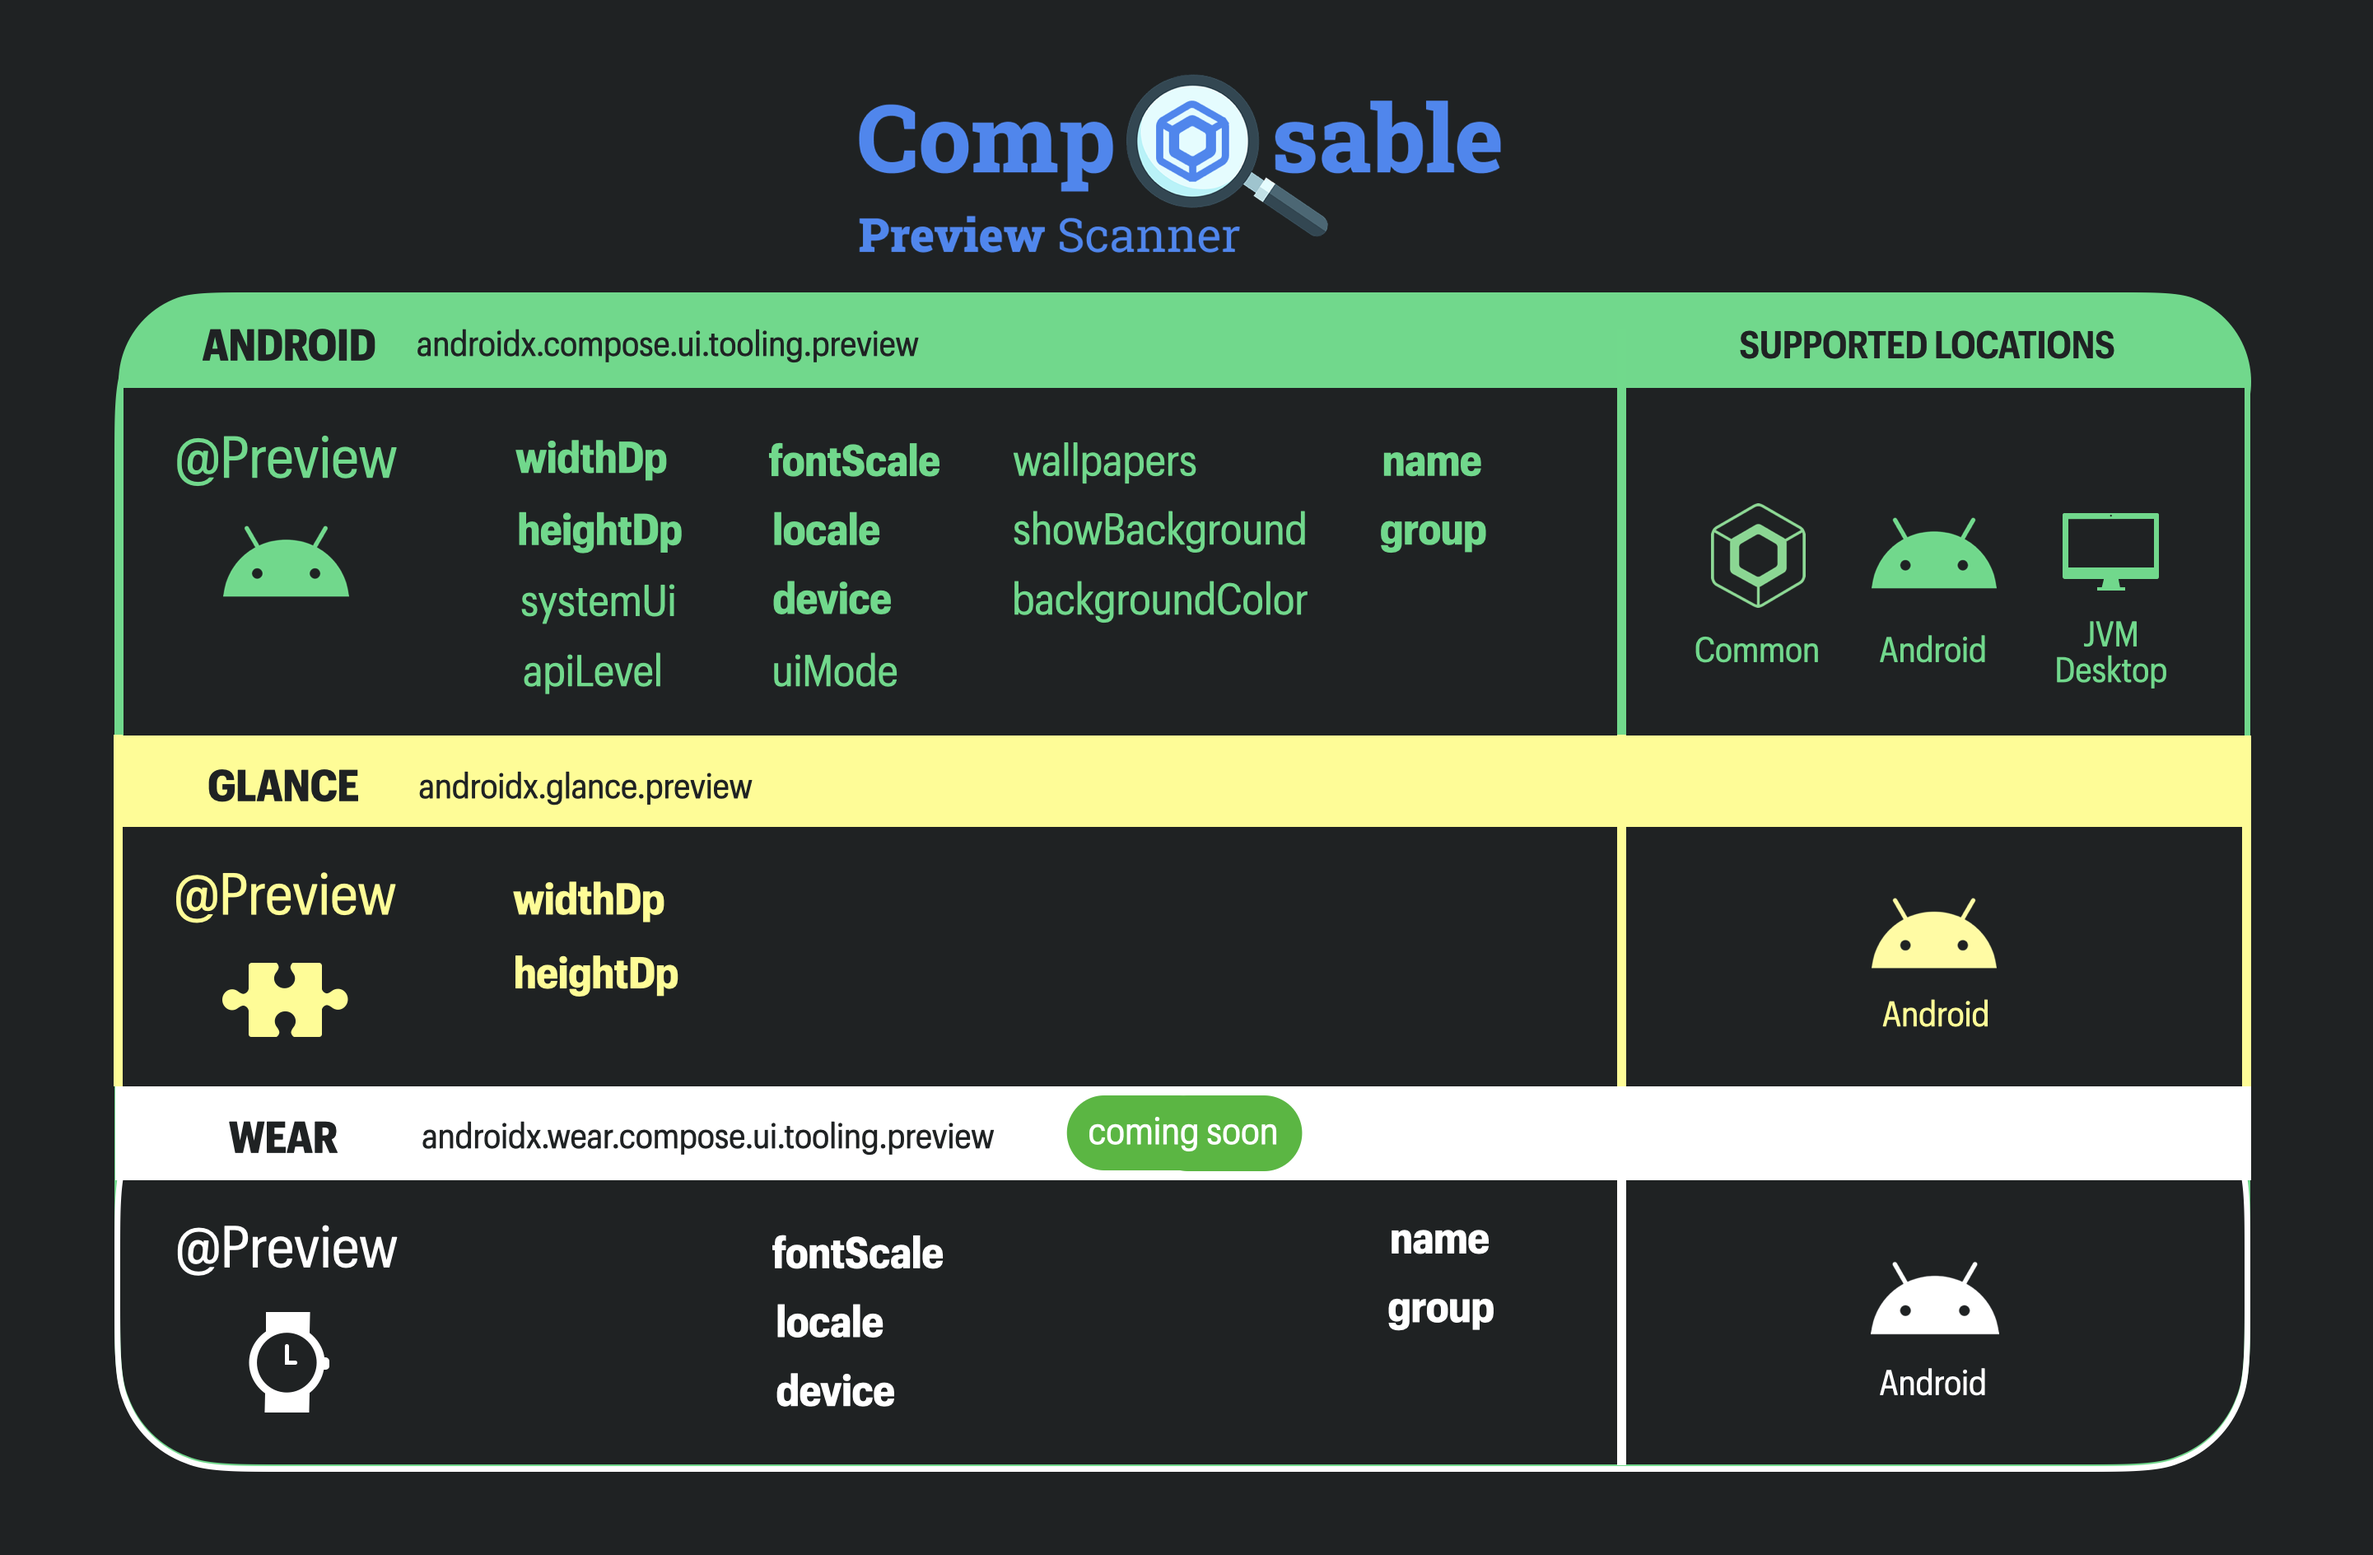
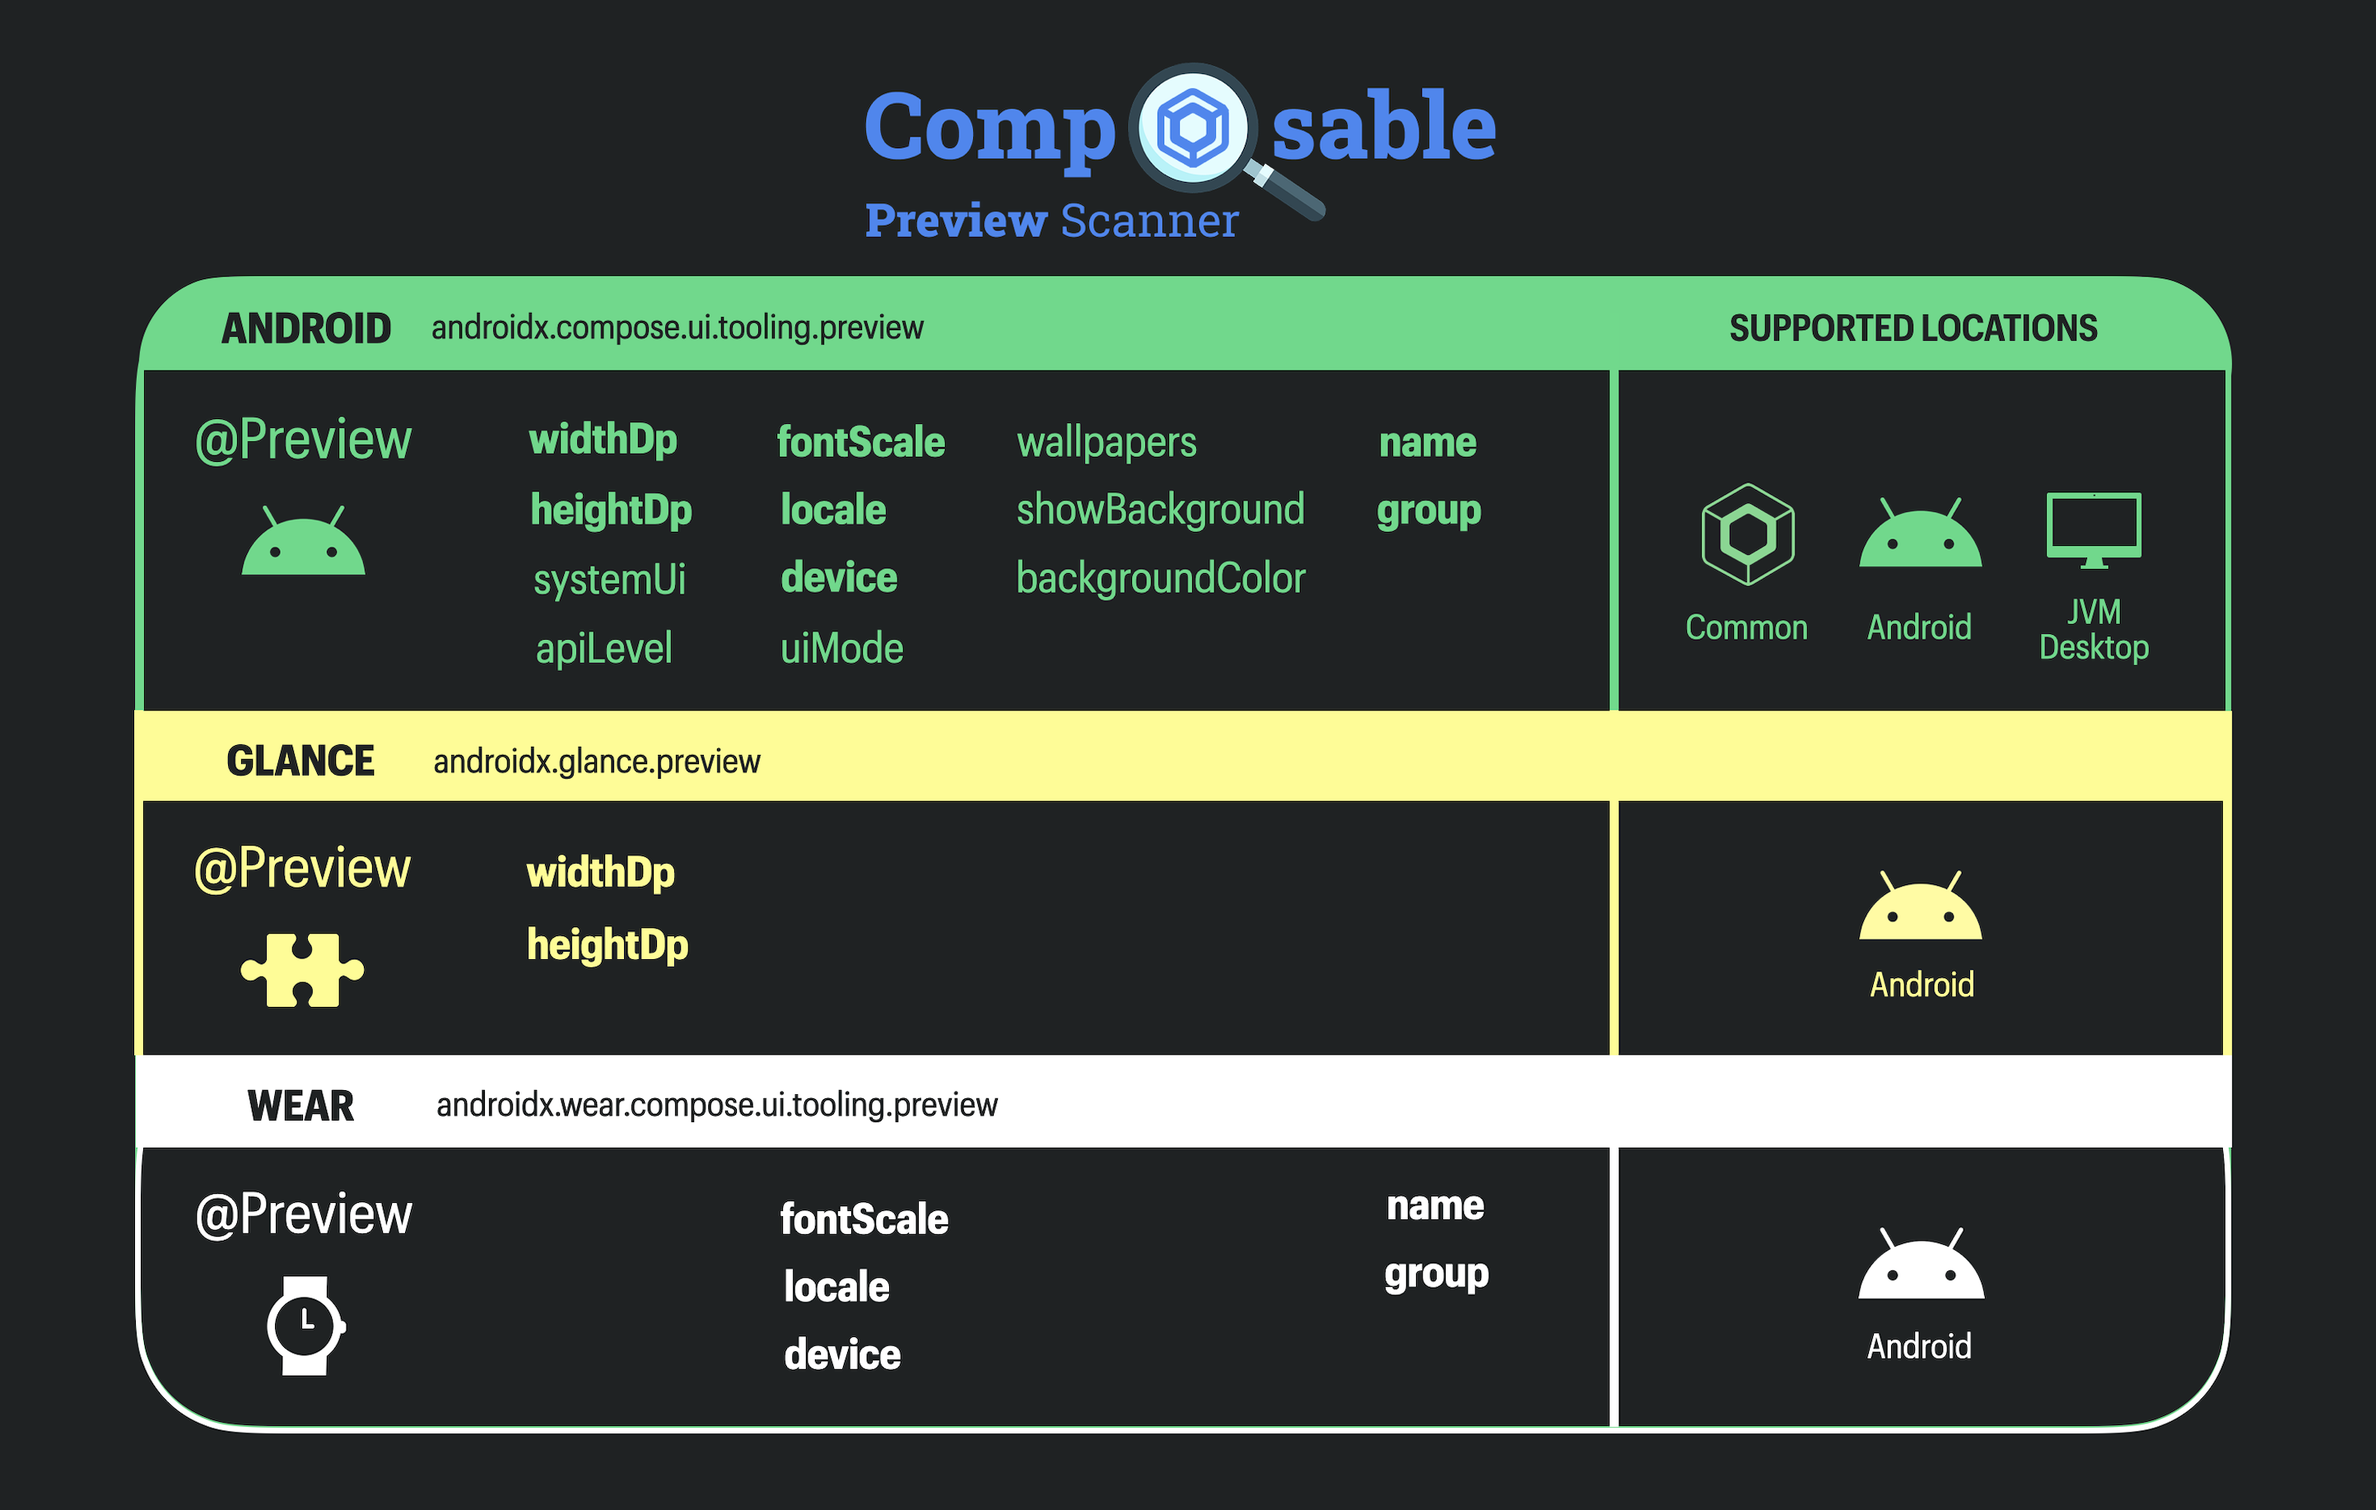
Update README.md to account for Wear support

diff --git a/README.md b/README.md
@@ -9,7 +9,7 @@
 
 [![](https://img.shields.io/badge/Kotlin-Multiplatform-%237f52ff?logo=kotlin&logoColor=white)](https://kotlinlang.org/docs/multiplatform.html) [![](https://img.shields.io/badge/Platform-Android-3DDC84?logo=android&logoColor=white)](#) [![](https://img.shields.io/badge/Platform-Desktop-0078D4?logo=openjdk&logoColor=white)](#)<br/>
 
-A Compose Multiplatform friendly library to help auto-generate screenshot tests from Composable Previews (e.g. **Android**, **Glance**) with any screenshot testing library:
+A Compose Multiplatform friendly library to help auto-generate screenshot tests from Composable Previews (e.g. **Android**, **Glance**, **Wear Tiles**) with any screenshot testing library:
 JVM-based (i.e. Paparazzi, Roborazzi) as well as Instrumentation-based (i.e. Shot, Dropshots, Android-Testify, etc.).
 
 > [!IMPORTANT]
@@ -32,7 +32,7 @@ With over **400,000 monthly downloads** (JitPack + Maven Central), Composable Pr
 | Scans previews in different sources sets<sup>2</sup> | ✅&nbsp;main<br/>✅&nbsp;screenshotTest<br/>✅&nbsp;androidTest | ✅&nbsp;main<br/>❌&nbsp;screenshotTest<br/>❌&nbsp;androidTest | ❌&nbsp;main<br/>✅&nbsp;screenshotTest<br/>❌&nbsp;androidTest |
 | Preview Infos available                              | ✅                                                         | ❌<sup>3</sup>                                      | ✅                                           |
 | Specific Config (e.g. for Libs) available            | ✅<sup>4</sup>                                             | ❌                                                  | ⚠<sup>5</sup>                               |
-| Supported Preview types                              | ✅&nbsp;Android<br/>✅&nbsp;Glance<br/>❌&nbsp;Wear<sup>6</sup> | ✅&nbsp;Android<br/>❌&nbsp;Glance<br/>❌&nbsp;Wear | ✅&nbsp;Android<br/>❌&nbsp;Glance<br/>❌&nbsp;Wear |
+| Supported Preview types                              | ✅&nbsp;Android<br/>✅&nbsp;Glance<br/>✅&nbsp;Wear&nbsp;Tile<sup>6</sup> | ✅&nbsp;Android<br/>❌&nbsp;Glance<br/>❌&nbsp;Wear&nbsp;Tile | ✅&nbsp;Android<br/>❌&nbsp;Glance<br/>❌&nbsp;Wear&nbsp;Tile |
 | Supported Locations in Compose Multiplatform         | ✅&nbsp;Android<br/>✅&nbsp;Desktop/JVM<br/>✅&nbsp;Common | ✅&nbsp;Android<br/>❌&nbsp;Desktop/JVM<sup>7</sup><br/>❌&nbsp;Common | ✅&nbsp;Android<br/>❌&nbsp;Desktop/JVM<br/>❌&nbsp;Common |
 
 <details>
@@ -43,7 +43,7 @@ With over **400,000 monthly downloads** (JitPack + Maven Central), Composable Pr
 <sup>3</sup> Showkase components only hold information about the Composable, but not about the Preview Info (i.e. ApiLevel, Locale, UiMode, FontScale...).<br/><br/>
 <sup>4</sup> ComposablePreviewScanner supports adding extra lib-config (e.g. Paparazzi's Rendering Mode or Roborazzi's compare options) in the form of annotations that are additionally added to the preview. You can check how in the examples below in [Jvm Screenshot Tests](#jvm-screenshot-tests) and [Instrumentation Screenshot Tests](#instrumentation-screenshot-tests) respectively.<br/><br/>
 <sup>5</sup> Compose Preview Screenshot Testing supports *only general tolerance* via gradle plugin from version [0.0.1-alpha06](https://developer.android.com/studio/preview/compose-screenshot-testing#001-alpha06)<br/><br/>
-<sup>6</sup> Wear Previews support is planned<br/><br/>
+<sup>6</sup> Wear Tile Previews (@androidx.wear.tiles.tooling.preview.Preview) are supported since 0.10.0+<br/><br/>
 <sup>7</sup> [Showkase: Compose Multiplatform Support](https://github.com/airbnb/Showkase/issues/364)
 </details><br/>
 
@@ -104,6 +104,10 @@ dependencies {
     // glance previews (androidx.glance.preview.Preview)
     // supported since 0.7.0+ in android target
     testImplementation("io.github.sergio-sastre.ComposablePreviewScanner:glance:<version>")
+
+    // wear tile previews (androidx.wear.tiles.tooling.preview.Preview)
+    // supported since 0.10.0+ in android target
+    testImplementation("io.github.sergio-sastre.ComposablePreviewScanner:wear:<version>")
 }
 ```
 
@@ -126,6 +130,10 @@ dependencies {
     // glance previews (androidx.glance.preview.Preview)
     // supported since 0.7.0+ in android target
     testImplementation("com.github.sergio-sastre.ComposablePreviewScanner:glance:<version>")
+
+    // wear tile previews (androidx.wear.tiles.tooling.preview.Preview)
+    // supported since 0.10.0+ in android target
+    testImplementation("com.github.sergio-sastre.ComposablePreviewScanner:wear:<version>")
 }
 ```
 
@@ -144,14 +152,15 @@ If you encounter any issues when executing the screenshot tests, take a look at 
 
 ### Related
 1. [Glance Previews Support](#glance-previews-support)
-2. [Compose Multiplatform Support](#compose-multiplatform-support)
+2. [Wear Tile Previews Support](#wear-tile-previews-support)
+3. [Compose Multiplatform Support](#compose-multiplatform-support)
 
 ## API   
-`AndroidComposablePreviewScanner` and `GlanceComposablePreviewScanner` have the same API.
+`AndroidComposablePreviewScanner`, `GlanceComposablePreviewScanner` and `WearTilePreviewScanner` share a similar API.
 The API is pretty simple:
 
 ```kotlin
-AndroidComposablePreviewScanner() // or GlanceComposablePreviewScanner()
+AndroidComposablePreviewScanner() // or GlanceComposablePreviewScanner() or WearTilePreviewScanner()
     // Optional to log scanning info like scanning time or amount of previews found
     .enableScanningLogs()
     // Optional to scan previews in compiled classes of other source sets, like "screenshotTest" or "androidTest"
@@ -185,9 +194,9 @@ AndroidComposablePreviewScanner() // or GlanceComposablePreviewScanner()
     )
     // Optional to also provide private Previews
     .includePrivatePreviews()
-    // Optional to filter by any previewInfo: heightDp, widthDp...
+    // Optional to filter by any previewInfo: name, group...
     .filterPreviews {
-        previewInfo ->  previewInfo.heightDP >= 800
+        previewInfo ->  previewInfo.group == "ignore_for_testing"
     }
     // ---
     .getPreviews()
@@ -881,7 +890,7 @@ Let's say we want to enable some custom Dropshots Config for some Previews, for 
 ## Advanced Usage
 ### Screenshot File Names
 ComposablePreviewScanner also provides classes to customize the name of the generated screenshots based on its Preview Info.
-These are `AndroidPreviewScreenshotIdBuilder` and `GlancePreviewScreenshotIdBuilder` respectively, and they both share the same API.
+These are `AndroidPreviewScreenshotIdBuilder`, `GlancePreviewScreenshotIdBuilder` and `WearTilePreviewScreenshotIdBuilder` respectively, and they share the same API.
 By default, these classes do not include the Preview Info in the screenshot file name if it is the same as its default value, but it can be configured to behave differently.
 That means, for @Preview(showBackground = false), showBackground would not be included in the screenshot file name since it is the default.
 
@@ -986,6 +995,30 @@ To write such screenshot tests you have to:
 3. Write the Parameterized screenshot test like in the examples above.
 
 <sup>1</sup> Unfortunately, Paparazzi is not able to always render screenshots accurately for Glance `@Preview`s without `widthDp`.
+</details>
+
+## Wear Tile Previews Support
+You can find executable examples in this repo with different screenshot libraries:
+- [Roborazzi](tests/src/test/java/sergio/sastre/composable/preview/scanner/tests/roborazzi/runtime/RoborazziWearTilePreviewInvokeTests.kt)
+- [Paparazzi](tests/src/test/java/sergio/sastre/composable/preview/scanner/tests/paparazzi/runtime/PaparazziWearTilePreviewInvokeTests.kt)
+- [Android-Testify](tests/src/androidTest/java/sergio/sastre/composable/preview/scanner/screenshots/AndroidTestifyWearTilePreviewScannerInstrumentationTest.kt) (Check the [instrumentation-screenshot-tests](#instrumentation-screenshot-tests) section before)
+
+<details>
+<summary>Click to see Wear Tile implementation details</summary>
+
+To write such screenshot tests you have to:
+1. Add `:wear` dependency for ComposablePreviewScanner e.g. `io.github.sergio-sastre.ComposablePreviewScanner:wear:<version>`. This contains scanner and snapshot configuration utilities for `@androidx.wear.tiles.tooling.preview.Preview`.
+2. Use `WearTilePreviewScanner()` to scan `@androidx.wear.tiles.tooling.preview.Preview` annotations.
+3. Invoking `preview()` on the returned `ComposablePreviewWithResult` provides `TilePreviewData`. Convert it to a `View` using `WearTileSnapshotConfigurator`:
+   ```kotlin
+   val wearView = WearTileSnapshotConfigurator(context)
+       .skipShapeClipping(SkipShapeClipping.ROUND_WITHOUT_CHIN) // Recommended for Paparazzi & Roborazzi
+       .previewToView(preview)
+   ```
+   > [!NOTE]
+   > For instrumentation testing libraries (e.g. Android-Testify, Dropshots, Shot), use `SkipShapeClipping.NEVER` so that `WearTileSnapshotConfigurator` handles device shape and chin clipping natively.
+4. Generate screenshot file names using `WearTilePreviewScreenshotIdBuilder(preview)`.
+5. Write the Parameterized screenshot test like in the executable examples linked above.
 </details>
 
 # Conferences & Community
@@ -1117,7 +1150,7 @@ internal fun MapScreenPreview() {
 </details>
 
 # Roadmap 
-- [ ] **Support for Wear Previews**
+- [x] **Support for Wear Tile Previews**
 - [ ] **Better integration in Gradle tasks**: This helps to speed up the test execution & provide better support for instrumentation testing libraries.
 - [ ] **KSP support**: This enables running Screenshot tests for Previews in `common` on other platforms (e.g. iOS) with libraries that support it (e.g. Roborazzi).
 - [ ] **General speed and memory consumption improvements**
